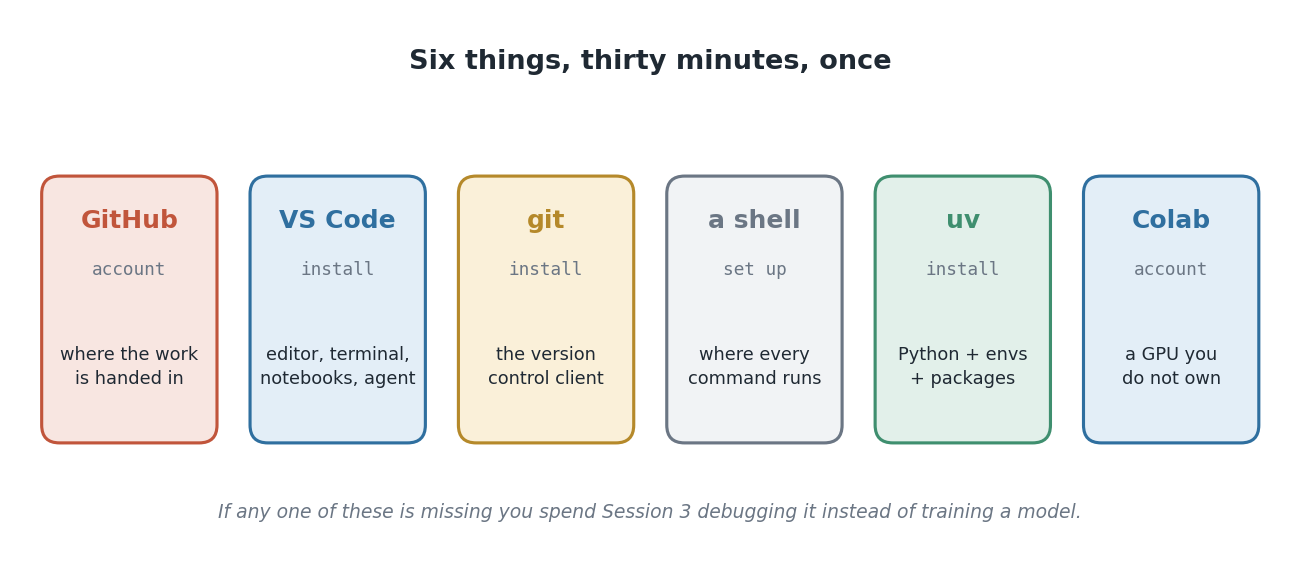
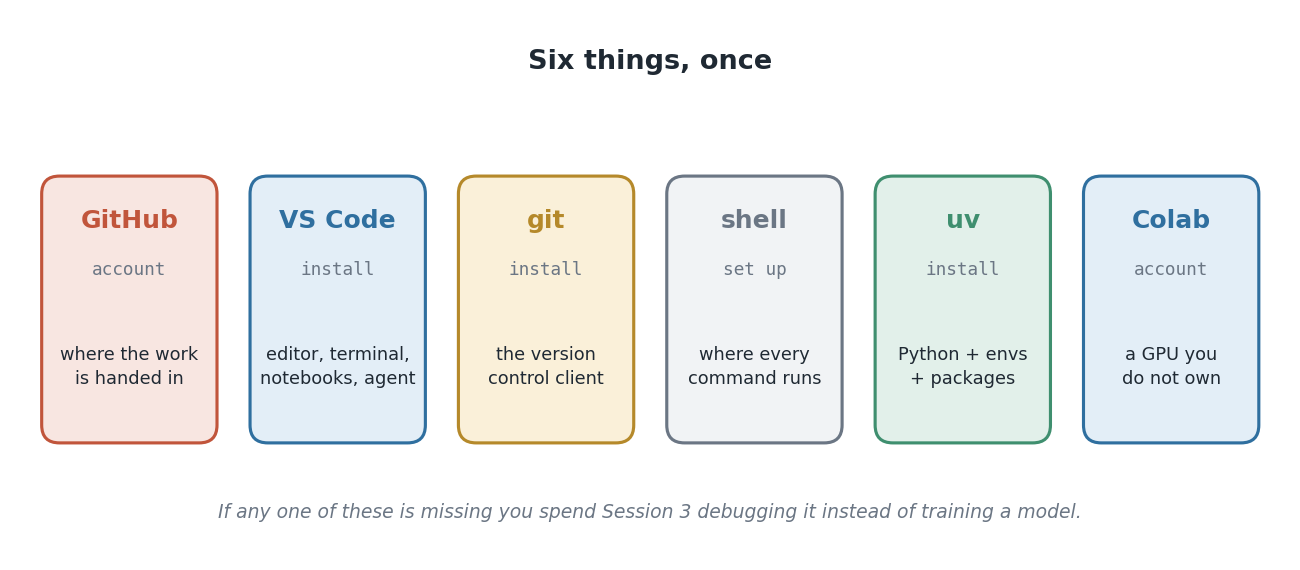
Drop the timing from the toolchain title, and shorten "a shell"
"Six things, thirty minutes, once" promised a duration the figure cannot keep:
the thirty minutes is a room estimate that belongs in the teacher's run-sheet,
not on a slide a student reads alone. "Six things, once" keeps the part that is
about the work — you do this setup one time — and drops the part that is about
the timetable.

"a shell" reads as an article on a slide where every other box is a bare name;
"shell" matches git, uv and Colab.

Claude-Session: https://claude.ai/code/session_01Sj8aQTM6V9whNfQfvzhm8J

Changed region(s): [[0.3077, 0.0895, 0.7077, 0.1491], [0.5538, 0.3579, 0.6154, 0.4175]]

diff --git a/courseware/tools/figures/s1_git_and_packaging.py b/courseware/tools/figures/s1_git_and_packaging.py
@@ -256,7 +256,7 @@ def accounts_and_tools() -> None:
         ("GitHub", "account", "where the work\nis handed in", WARM_BG, WARM),
         ("VS Code", "install", "editor, terminal,\nnotebooks, agent", ACCENT_BG, ACCENT),
         ("git", "install", "the version\ncontrol client", GOLD_BG, GOLD),
-        ("a shell", "set up", "where every\ncommand runs", GREY_BG, MUTED),
+        ("shell", "set up", "where every\ncommand runs", GREY_BG, MUTED),
         ("uv", "install", "Python + envs\n+ packages", GREEN_BG, GREEN),
         ("Colab", "account", "a GPU you\ndo not own", ACCENT_BG, ACCENT),
     ]
@@ -268,7 +268,7 @@ def accounts_and_tools() -> None:
         label(ax, x + w / 2, 25.6, kind, fs=8.5, color=MUTED, mono=True)
         label(ax, x + w / 2, 18.0, why, fs=8.5, color=INK)
         x += w + gap
-    label(ax, 50, 42, "Six things, thirty minutes, once", fs=13, weight="bold")
+    label(ax, 50, 42, "Six things, once", fs=13, weight="bold")
     caption(ax, 50, 6.5,
             "If any one of these is missing you spend Session 3 debugging it "
             "instead of training a model.")
